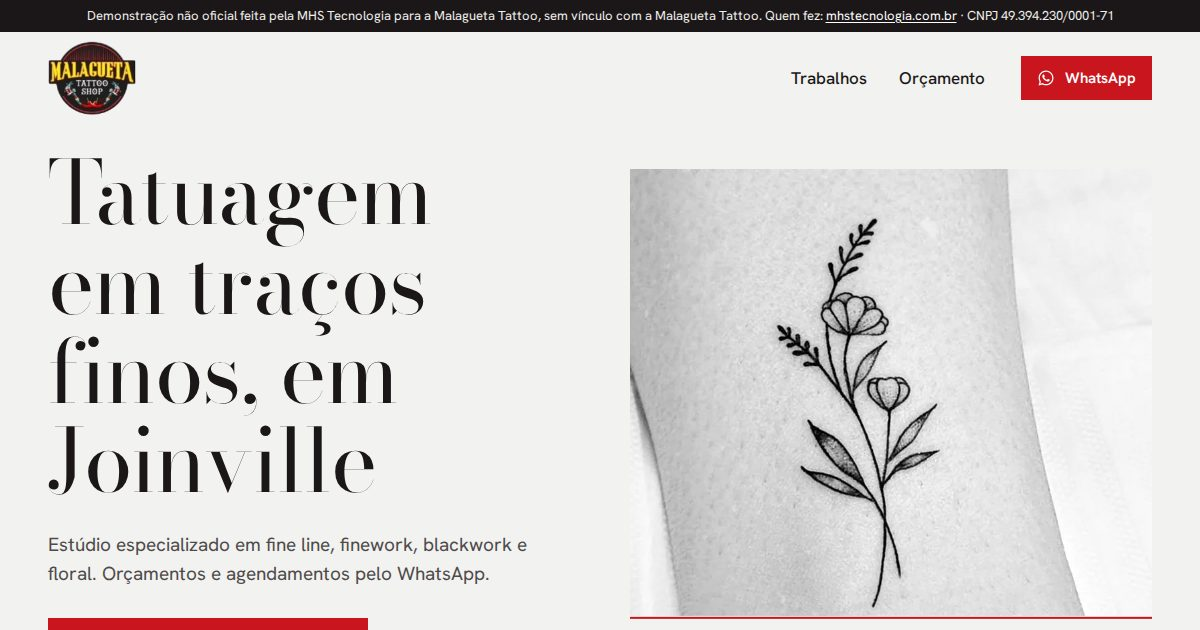
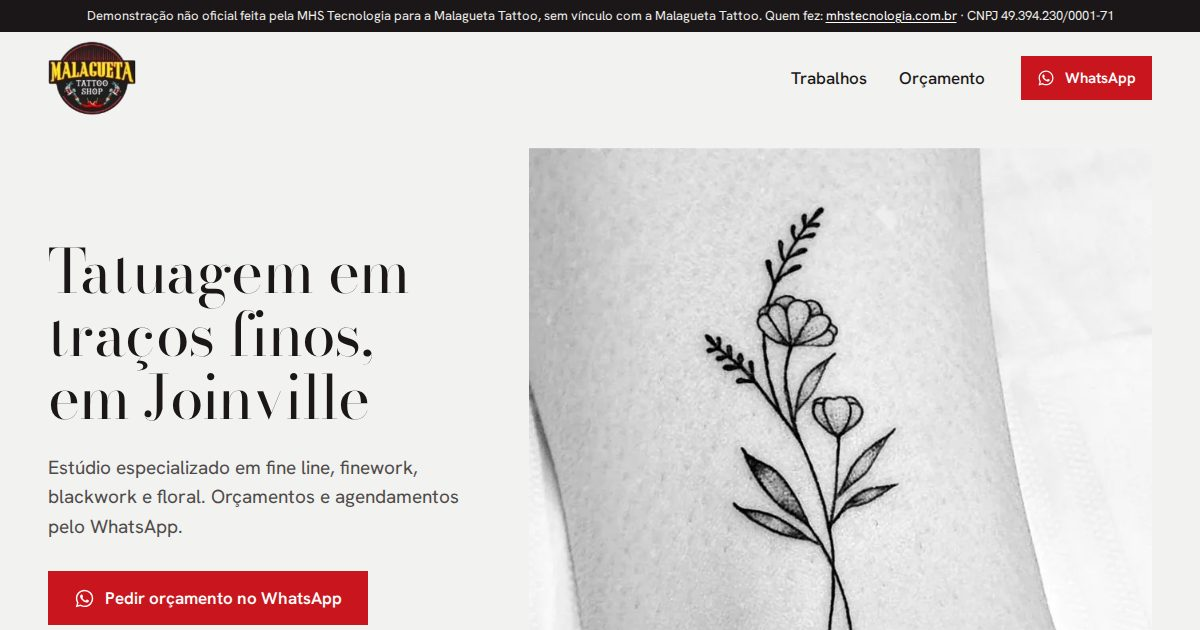
Previews: 38 ativos

diff --git a/malagueta-tattoo-joinville-sc/estilo.css b/malagueta-tattoo-joinville-sc/estilo.css
@@ -48,12 +48,13 @@ a { color: inherit; }
 .btn-peq svg { width: 18px; height: 18px; }
 .btn-preto { background: var(--nanquim); }
 .btn-preto:hover { background: #000; }
-.link-fino { display: inline-block; padding: 6px 0; font-weight: 500; text-decoration: underline; text-decoration-thickness: 1px; text-underline-offset: 5px; }
+.link-fino { display: inline-flex; align-items: center; min-height: 44px; font-weight: 500; text-decoration: underline; text-decoration-thickness: 1px; text-underline-offset: 5px; }
 .link-fino:hover { color: var(--malagueta); }
 
 /* ---- início ---- */
-.hero .wrap { display: grid; grid-template-columns: minmax(0, 1fr) minmax(0, 1fr); gap: clamp(32px, 5vw, 72px); align-items: center; padding-block: clamp(16px, 2vw, 28px) clamp(40px, 5vw, 64px); }
-.hero h1 { font: 400 clamp(2.6rem, 7.3vw, 6.1rem)/1.02 var(--serif); letter-spacing: -.01em; text-wrap: balance; }
+.hero .wrap { display: grid; grid-template-columns: minmax(0, .82fr) minmax(0, 1.18fr); gap: clamp(32px, 4vw, 56px); align-items: center; padding-block: clamp(16px, 2vw, 28px) clamp(40px, 5vw, 64px); }
+.hero h1 { font: 400 clamp(2.6rem, 5.05vw, 4.6rem)/1.04 var(--serif); letter-spacing: -.01em; }
+.hero h1 span { display: block; white-space: nowrap; }
 .hero-txt p { margin-top: 24px; max-width: 30em; font-size: 1.1875rem; color: var(--grafite); }
 .hero-txt .btn { margin-top: 30px; }
 .quadro { position: relative; overflow: hidden; aspect-ratio: 780 / 672; background: var(--papel); }
@@ -66,8 +67,10 @@ a { color: inherit; }
   95% { opacity: 1; }
   100% { transform: translateY(var(--altura-quadro, 480px)); opacity: 0; }
 }
-.hero figcaption { margin-top: 10px; font-size: .9375rem; color: var(--grafite); }
+.hero figcaption { margin-top: 10px; font-size: .875rem; color: var(--grafite); }
 
+.tira .wrap { display: grid; grid-template-columns: minmax(0, 2fr) minmax(0, 3fr); gap: clamp(24px, 4vw, 56px); align-items: center; }
+.tira p { font: italic 400 clamp(1.5rem, 2.6vw, 2.25rem)/1.2 var(--serif); font-variation-settings: "opsz" 20; }
 .tira img { width: 100%; height: auto; }
 
 .estilos { padding-block: clamp(64px, 9vw, 128px); }
@@ -84,12 +87,23 @@ a { color: inherit; }
 .obra-memento { grid-column: 1 / span 7; }
 .obra-leao { grid-column: 8 / span 5; margin-top: clamp(40px, 9vw, 128px); }
 
-.tambem { border-top: 1px solid var(--traco); }
-.tambem .wrap { display: grid; grid-template-columns: minmax(0, 1fr) minmax(0, 1fr); gap: 24px clamp(32px, 5vw, 72px); padding-block: clamp(40px, 5vw, 64px); }
-.tambem h2 { font: 400 clamp(1.75rem, 3vw, 2.5rem)/1.15 var(--serif); margin-bottom: 8px; }
-.tambem p { color: var(--grafite); max-width: 34em; }
-.tambem .link-fino { margin-top: 8px; color: var(--nanquim); }
-.tambem .link-fino:hover { color: var(--malagueta); }
+/* a sequência escurece e desce: do fio ao preto cheio */
+.perto { background: var(--nanquim); color: #f1efec; }
+.perto .wrap { padding-block: clamp(64px, 9vw, 120px); }
+.perto-topo { display: flex; flex-wrap: wrap; align-items: baseline; gap: 4px 28px; margin-bottom: clamp(32px, 4vw, 56px); }
+.perto h2 { font: 400 clamp(3rem, 8vw, 6.75rem)/1.02 var(--serif); letter-spacing: -.01em; }
+.perto-topo p { font-size: 1.1875rem; color: #cdc9c5; }
+.perto-seq { display: grid; grid-template-columns: repeat(4, minmax(0, 1fr)); gap: clamp(16px, 2vw, 24px); align-items: start; }
+.perto-seq figure:nth-child(2) { margin-top: 48px; }
+.perto-seq figure:nth-child(3) { margin-top: 96px; }
+.perto-seq figure:nth-child(4) { margin-top: 144px; }
+.perto-seq img { width: 100%; aspect-ratio: 1; object-fit: cover; }
+.perto-seq figcaption { margin-top: 12px; font-size: .9375rem; color: #cdc9c5; }
+.perto-seq strong { display: block; font: italic 400 clamp(1.75rem, 3vw, 2.5rem)/1.15 var(--serif); font-variation-settings: "opsz" 18; color: #fff; }
+
+.prova .wrap { padding-block: clamp(56px, 8vw, 104px); }
+.prova p { font: 400 clamp(2.4rem, 6.4vw, 5.25rem)/1.06 var(--serif); letter-spacing: -.01em; max-width: 15em; text-wrap: balance; }
+.prova .link-fino { margin-top: 12px; }
 
 .fecho { background: var(--amarelo); }
 .fecho .wrap { padding-block: clamp(64px, 9vw, 120px); }
@@ -98,7 +112,7 @@ a { color: inherit; }
 .fecho .btn { margin-top: 30px; }
 
 /* Bodoni fica frágil em tamanho pequeno: o eixo óptico engrossa os fios. */
-.tambem h2, .passos h2, .atalhos h2, .estilos-lista h2 { font-variation-settings: "opsz" 16; }
+.passos h2, .atalhos h2, .estilos-lista h2 { font-variation-settings: "opsz" 16; }
 .linhas span:first-child { font-variation-settings: "opsz" 24; }
 
 /* ---- páginas internas ---- */
@@ -138,7 +152,7 @@ a { color: inherit; }
 .rod .wrap { display: grid; grid-template-columns: auto minmax(0, 1fr) auto; gap: 24px clamp(32px, 5vw, 72px); padding-block: 40px 32px; align-items: start; }
 .rod img { width: 104px; height: auto; }
 .rod ul li + li { margin-top: 2px; }
-.rod a { display: inline-block; padding: 4px 0; color: #fff; text-underline-offset: 3px; }
+.rod a { display: inline-flex; align-items: center; min-height: 44px; color: #fff; text-underline-offset: 3px; }
 .rod-demo { grid-column: 1 / -1; border-top: 1px solid #ffffff33; padding-top: 16px; font-size: .875rem; color: #c9c5c1; }
 
 .barra { position: fixed; left: 0; right: 0; bottom: 0; z-index: 30; display: none; padding: 8px 16px calc(8px + env(safe-area-inset-bottom)); background: var(--papel); border-top: 1px solid var(--traco); transform: translateY(110%); transition: transform .2s; }
@@ -149,21 +163,27 @@ a { color: inherit; }
   body { padding-bottom: 72px; }
   .barra { display: block; }
   .tira .wrap { padding-inline: 0; }
-  .hero h1, .topo h1, .fecho h2 { font-variation-settings: "opsz" 20; }
+  .hero h1, .topo h1, .fecho h2, .perto h2, .prova p { font-variation-settings: "opsz" 20; }
   .cab .wrap { min-height: 72px; gap: 14px; }
   .marca img { width: 68px; }
   .cab .btn { display: none; }
-  .hero .wrap { grid-template-columns: minmax(0, 1fr); gap: 16px; padding-top: 0; }
+  .hero .wrap { grid-template-columns: minmax(0, 1fr); gap: 14px; padding-top: 0; }
   .hero figure { order: -1; margin-inline: calc(var(--gutter) * -1); }
-  .quadro { aspect-ratio: auto; height: min(308px, 38svh); }
-  .hero figcaption { position: absolute; width: 1px; height: 1px; overflow: hidden; clip-path: inset(50%); }
-  .hero-txt p { margin-top: 12px; font-size: 1.0625rem; }
-  .hero-txt .btn { margin-top: 18px; width: 100%; }
+  .quadro { aspect-ratio: auto; height: clamp(150px, calc(100svh - 472px), 308px); }
+  .hero figcaption { margin-top: 6px; padding-inline: var(--gutter); font-size: .75rem; }
+  .hero-txt p { margin-top: 10px; font-size: 1.0625rem; }
+  .hero-txt p span { display: none; }
+  .hero-txt .btn { margin-top: 16px; width: 100%; }
+  .tira .wrap { grid-template-columns: minmax(0, 1fr); gap: 12px; }
+  .tira p { padding-inline: var(--gutter); }
+  .perto-topo { display: block; }
+  .perto-seq { grid-template-columns: repeat(2, minmax(0, 1fr)); gap: 32px 16px; }
+  .perto-seq figure:nth-child(n) { margin-top: 0; }
+  .perto-seq figure:nth-child(even) { margin-top: 36px; }
   .estilos-lista h2, .linhas { grid-column: 1 / -1; }
   .linhas { margin-top: 24px; }
   .obra-memento { grid-column: 1 / -1; }
   .obra-leao { grid-column: 3 / -1; margin-top: 0; }
-  .tambem .wrap { grid-template-columns: minmax(0, 1fr); }
   .fecho .btn { width: 100%; }
   .f-chapeu { grid-column: 1 / -1; }
   .f-borboleta { grid-column: 3 / -1; margin-top: 0; }

diff --git a/malagueta-tattoo-joinville-sc/index.html b/malagueta-tattoo-joinville-sc/index.html
@@ -10,7 +10,7 @@
 <link rel="icon" href="img/logo-96.webp" type="image/webp">
 <link rel="preload" href="fonts/bodoni-normal.woff2" as="font" type="font/woff2" crossorigin>
 <link rel="preload" href="fonts/hanken-normal.woff2" as="font" type="font/woff2" crossorigin>
-<link rel="preload" as="image" href="img/flor-decalque-780.webp" imagesrcset="img/flor-decalque-480.webp 480w, img/flor-decalque-780.webp 780w" imagesizes="(max-width: 860px) 100vw, 590px" fetchpriority="high">
+<link rel="preload" as="image" href="img/flor-decalque-780.webp" imagesrcset="img/flor-decalque-480.webp 480w, img/flor-decalque-780.webp 780w" imagesizes="(max-width: 860px) 100vw, 640px" fetchpriority="high">
 <link rel="stylesheet" href="estilo.css">
 <meta property="og:type" content="website">
 <meta property="og:title" content="Malagueta Tattoo | Traços finos em Joinville">
@@ -35,33 +35,37 @@
 <section class="hero">
   <div class="wrap">
     <div class="hero-txt" data-cta-topo>
-      <h1>Tatuagem em traços finos, em Joinville</h1>
-      <p>Estúdio especializado em fine line, finework, blackwork e floral. Orçamentos e agendamentos pelo WhatsApp.</p>
+      <h1><span>Tatuagem em</span> <span>traços finos,</span> <span>em Joinville</span></h1>
+      <p>Estúdio especializado em fine line, finework, blackwork e floral. <span>Orçamentos e agendamentos pelo WhatsApp.</span></p>
       <a class="btn" href="https://wa.me/5547996409327?text=Oi%21%20Quero%20um%20or%C3%A7amento%20de%20tatuagem."><svg viewBox="0 0 24 24" aria-hidden="true"><use href="#wa"/></svg>Pedir orçamento no WhatsApp</a>
     </div>
     <figure>
       <div class="quadro">
-        <img src="img/flor-decalque-780.webp" srcset="img/flor-decalque-480.webp 480w, img/flor-decalque-780.webp 780w" sizes="(max-width: 860px) 100vw, 590px" width="780" height="672" alt="" fetchpriority="high">
-        <img class="pele" src="img/flor-780.webp" srcset="img/flor-480.webp 480w, img/flor-780.webp 780w" sizes="(max-width: 860px) 100vw, 590px" width="780" height="672" alt="Tatuagem de um pequeno ramo com duas flores e folhas, em linhas finas pretas">
+        <img src="img/flor-decalque-780.webp" srcset="img/flor-decalque-480.webp 480w, img/flor-decalque-780.webp 780w" sizes="(max-width: 860px) 100vw, 640px" width="780" height="672" alt="" fetchpriority="high">
+        <img class="pele" src="img/flor-780.webp" srcset="img/flor-480.webp 480w, img/flor-780.webp 780w" sizes="(max-width: 860px) 100vw, 640px" width="780" height="672" alt="Tatuagem de um pequeno ramo com duas flores e folhas, em linhas finas pretas">
       </div>
-      <figcaption>Do desenho à pele.</figcaption>
+      <figcaption>Foto de um trabalho. O traço violeta é um efeito desta demonstração.</figcaption>
     </figure>
   </div>
 </section>
 
 <section class="tira" aria-label="Frase tatuada em letra cursiva fina">
-  <div class="wrap"><img src="img/frase-1420.webp" srcset="img/frase-760.webp 760w, img/frase-1420.webp 1420w" sizes="(max-width: 860px) 100vw, 1144px" width="1420" height="255" alt="Tatuagem de uma frase em letra cursiva fina: eu sou um mar de ondas intensas" loading="lazy" decoding="async"></div>
+  <div class="wrap">
+    <p>Uma frase inteira, em letra cursiva.</p>
+    <img src="img/frase-1420.webp" srcset="img/frase-760.webp 760w, img/frase-1420.webp 1420w" sizes="(max-width: 860px) 100vw, 690px" width="1420" height="255" alt="Tatuagem de uma frase em letra cursiva fina: eu sou um mar de ondas intensas" loading="lazy" decoding="async">
+  </div>
 </section>
 
 <section class="estilos">
   <div class="wrap">
     <div class="estilos-lista">
-      <h2>Os estilos do estúdio</h2>
+      <h2>O que o estúdio faz</h2>
       <ul class="linhas">
         <li><a href="https://wa.me/5547996409327?text=Oi%21%20Quero%20um%20or%C3%A7amento%20de%20tatuagem%20fine%20line."><span>Fine line</span><span>Pedir orçamento</span></a></li>
         <li><a href="https://wa.me/5547996409327?text=Oi%21%20Quero%20um%20or%C3%A7amento%20de%20tatuagem%20finework."><span>Finework</span><span>Pedir orçamento</span></a></li>
         <li><a href="https://wa.me/5547996409327?text=Oi%21%20Quero%20um%20or%C3%A7amento%20de%20tatuagem%20blackwork."><span>Blackwork</span><span>Pedir orçamento</span></a></li>
         <li><a href="https://wa.me/5547996409327?text=Oi%21%20Quero%20um%20or%C3%A7amento%20de%20tatuagem%20floral."><span>Floral</span><span>Pedir orçamento</span></a></li>
+        <li><a href="https://wa.me/5547996409327?text=Oi%21%20Quero%20saber%20sobre%20piercing."><span>Piercing</span><span>Perguntar</span></a></li>
       </ul>
     </div>
     <figure class="obra obra-memento">
@@ -75,18 +79,37 @@
   </div>
 </section>
 
-<section class="tambem">
+<section class="perto">
   <div class="wrap">
-    <div>
-      <h2>Também tem piercing</h2>
-      <p>A Malagueta é estúdio de tatuagem e piercing.</p>
-      <a class="link-fino" href="https://wa.me/5547996409327?text=Oi%21%20Quero%20saber%20sobre%20piercing.">Perguntar sobre piercing</a>
+    <div class="perto-topo">
+      <h2>De perto</h2>
+      <p>Da linha mais fina ao preto cheio.</p>
     </div>
-    <div>
-      <h2>24,7 mil seguidores</h2>
-      <p>É quanta gente acompanha o trabalho do estúdio no Instagram, com 804 publicações até agora.</p>
-      <a class="link-fino" href="trabalhos.html">Ver os trabalhos</a>
+    <div class="perto-seq">
+      <figure>
+        <img src="img/perto-linha-300.webp" width="300" height="300" alt="Detalhe de letras cursivas tatuadas em linha fina" loading="lazy" decoding="async">
+        <figcaption><strong>Linha</strong>A letra feita em um fio só.</figcaption>
+      </figure>
+      <figure>
+        <img src="img/perto-ponto-280.webp" width="280" height="280" alt="Detalhe de ornamentos tatuados com pontos e pequenas gotas" loading="lazy" decoding="async">
+        <figcaption><strong>Ponto</strong>Pontos pequenos que formam o desenho.</figcaption>
+      </figure>
+      <figure>
+        <img src="img/perto-sombra-400.webp" width="400" height="400" alt="Detalhe de um chapéu de bruxa tatuado com sombra pontilhada" loading="lazy" decoding="async">
+        <figcaption><strong>Sombra</strong>O volume construído aos poucos.</figcaption>
+      </figure>
+      <figure>
+        <img src="img/perto-preto-440.webp" width="440" height="440" alt="Detalhe do olho de um leão tatuado em preto" loading="lazy" decoding="async">
+        <figcaption><strong>Preto</strong>Quando o desenho pede força.</figcaption>
+      </figure>
     </div>
+  </div>
+</section>
+
+<section class="prova">
+  <div class="wrap">
+    <p>24,7 mil seguidores acompanham o estúdio no Instagram.</p>
+    <a class="link-fino" href="trabalhos.html">Ver os trabalhos</a>
   </div>
 </section>
 

diff --git a/malagueta-tattoo-joinville-sc/site.js b/malagueta-tattoo-joinville-sc/site.js
@@ -1,7 +1,8 @@
 // Barra de WhatsApp no celular: aparece depois do botão do topo.
 (function () {
   var barra = document.querySelector('[data-barra]');
-  var topo = document.querySelector('[data-cta-topo] .btn, .topo');
+  // Só a home tem botão no topo; nas internas a barra fica sempre visível.
+  var topo = document.querySelector('[data-cta-topo] .btn');
   var quadro = document.querySelector('.quadro');
   if (quadro) {
     var medir = function () { quadro.style.setProperty('--altura-quadro', quadro.offsetHeight + 'px'); };
@@ -10,7 +11,8 @@
   }
   if (!barra) return;
   if (!topo || !('IntersectionObserver' in window)) { barra.classList.add('ver'); return; }
+  // threshold 1: botão cortado pela dobra conta como fora da tela.
   new IntersectionObserver(function (e) {
-    barra.classList.toggle('ver', !e[0].isIntersecting);
-  }).observe(topo);
+    barra.classList.toggle('ver', e[0].intersectionRatio < 1);
+  }, { threshold: 1 }).observe(topo);
 })();
